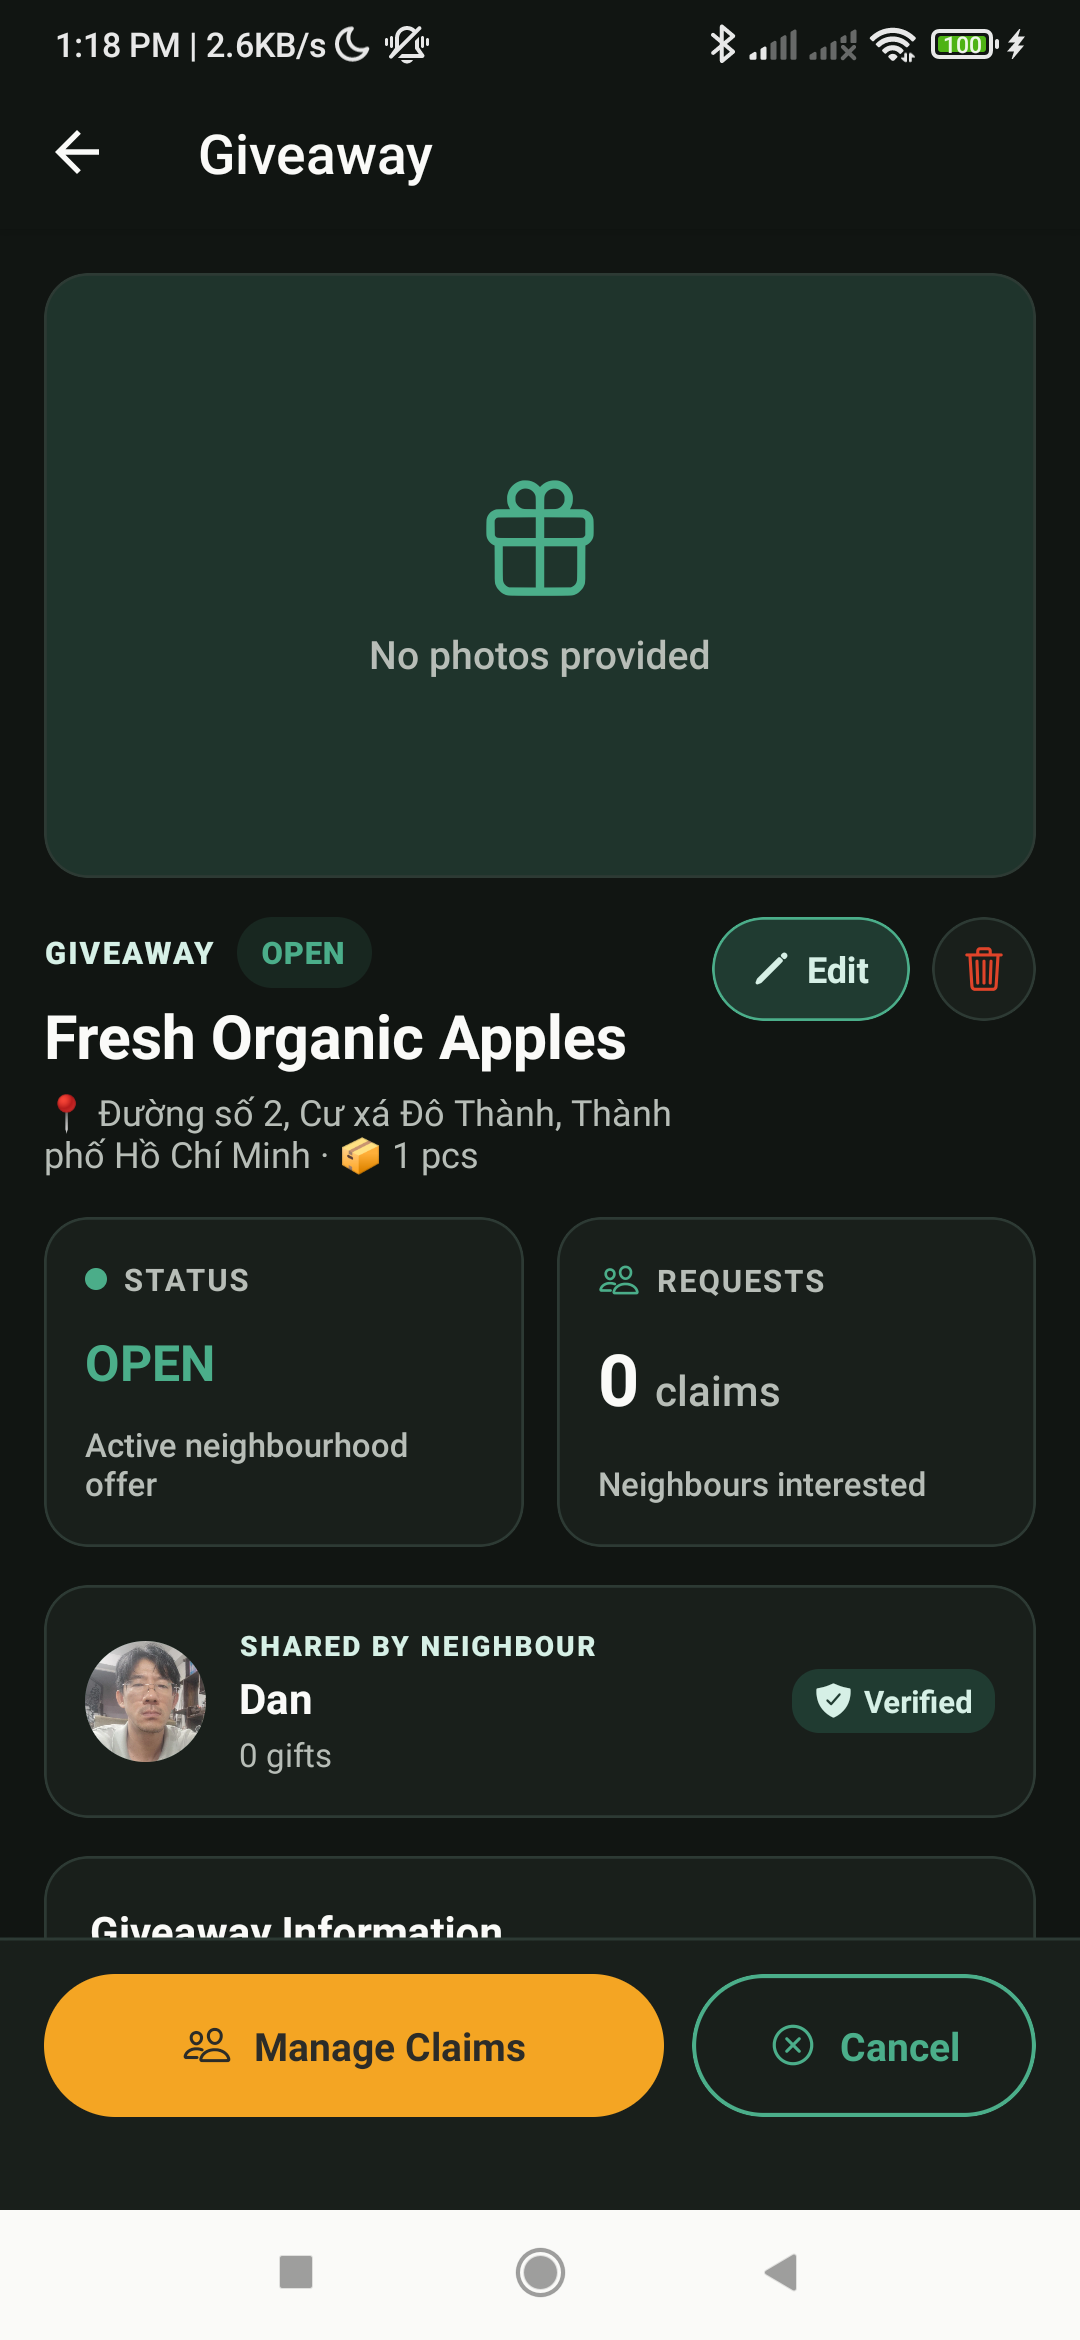
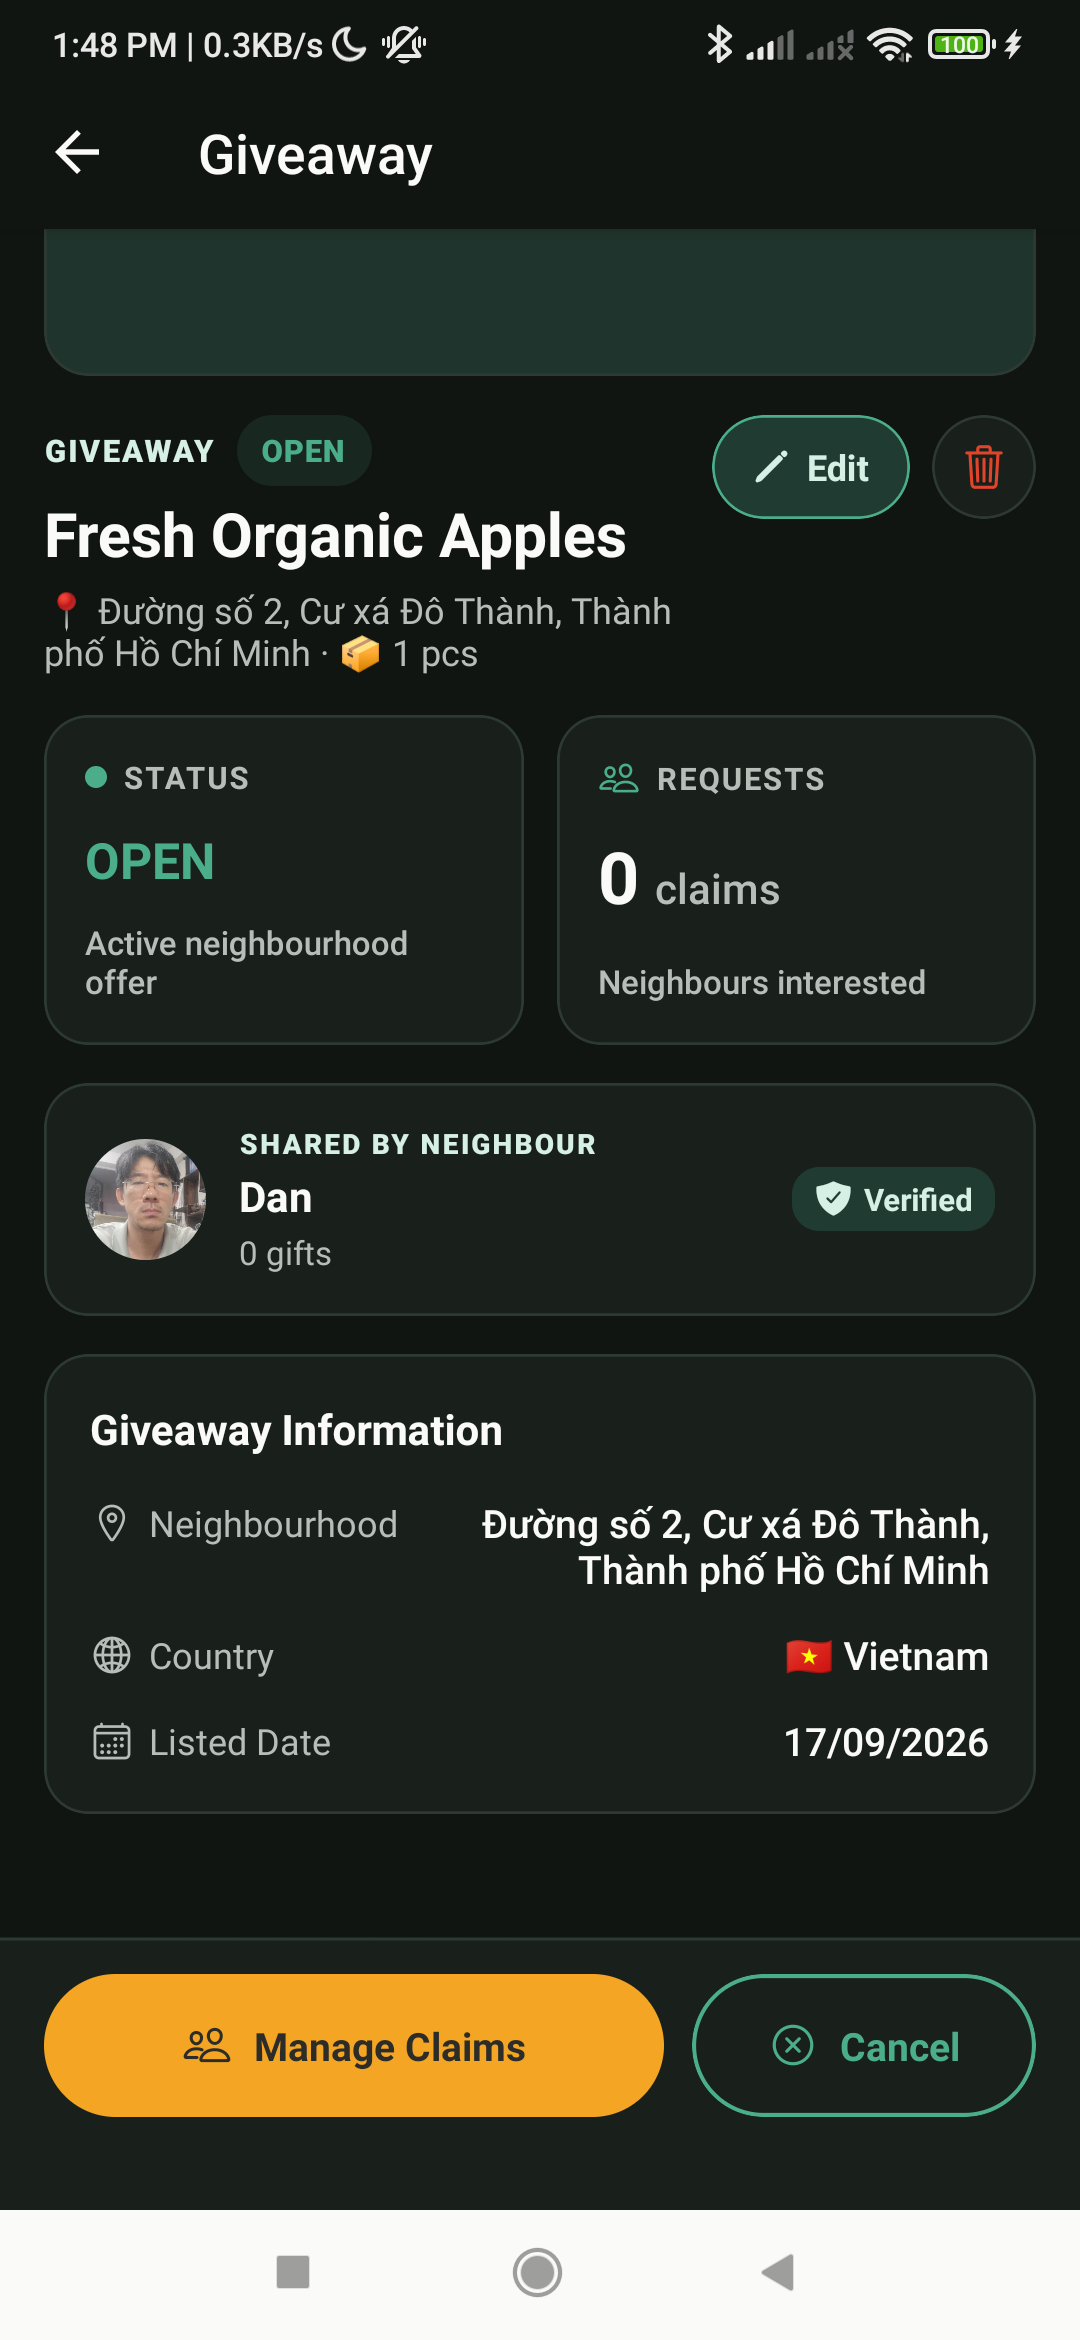
fix(mobile): resolve horizontal text overflow in giveaway information specs

diff --git a/apps/mobile/app/(app)/giveaway/[id].tsx b/apps/mobile/app/(app)/giveaway/[id].tsx
@@ -164,7 +164,7 @@ export default function GiveawayDetailScreen() {
       <ScrollView
         contentContainerStyle={{
           padding: 16,
-          paddingBottom: Math.max(insets.bottom, 34) + 90,
+          paddingBottom: Math.max(insets.bottom, 34) + 110,
           gap: 14,
         }}
         showsVerticalScrollIndicator={false}
@@ -393,11 +393,17 @@ export default function GiveawayDetailScreen() {
                 Neighbourhood
               </Text>
             </View>
-            <Text style={[styles.specValue, { color: theme.colors.text }]}>
-              {giveaway.locationText}
-            </Text>
+            <View style={{ flex: 1, alignItems: 'flex-end', paddingLeft: 12 }}>
+              <Text style={[styles.specValue, { color: theme.colors.text }]}>
+                {giveaway.locationText}
+              </Text>
+              {giveaway.distanceKm != null && (
+                <Text style={{ fontSize: 11, fontWeight: '600', color: theme.colors.primaryDark, marginTop: 2 }}>
+                  📍 {giveaway.distanceKm} km from you
+                </Text>
+              )}
+            </View>
           </View>
-
           {giveaway.country ? (
             <View style={styles.specRow}>
               <View style={styles.specLabelWrap}>
@@ -792,12 +798,15 @@ const styles = StyleSheet.create({
   specRow: {
     flexDirection: 'row',
     justifyContent: 'space-between',
-    alignItems: 'center',
+    alignItems: 'flex-start',
+    gap: 12,
   },
   specLabelWrap: {
     flexDirection: 'row',
     alignItems: 'center',
     gap: 6,
+    flexShrink: 0,
+    paddingTop: 1,
   },
   specLabel: {
     fontSize: 13,
@@ -805,6 +814,9 @@ const styles = StyleSheet.create({
   specValue: {
     fontSize: 14,
     fontWeight: '600',
+    flex: 1,
+    flexShrink: 1,
+    textAlign: 'right',
   },
   notesBox: {
     padding: 10,
